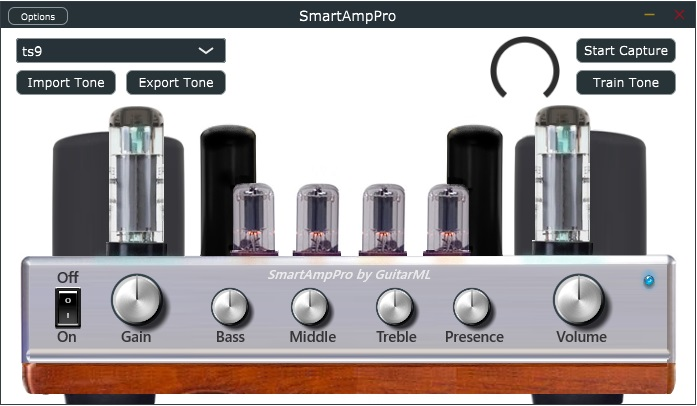
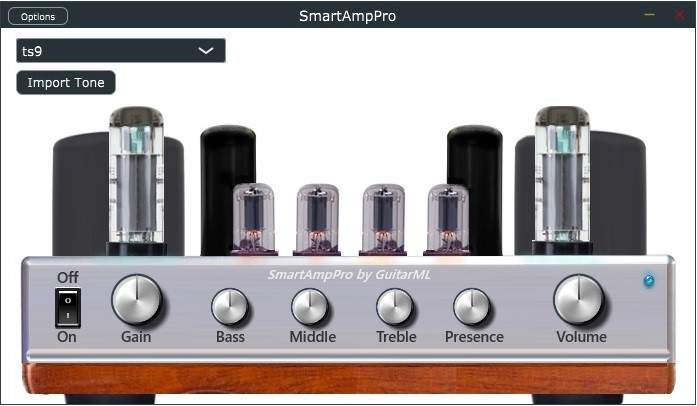
More initial updates

diff --git a/Source/PluginEditor.cpp b/Source/PluginEditor.cpp
@@ -63,66 +63,48 @@ SmartAmpProAudioProcessorEditor::SmartAmpProAudioProcessorEditor (SmartAmpProAud
     addAndMakeVisible(ampPresenceKnob);
     ampPresenceKnob.setLookAndFeel(&ampSilverKnobLAF);
     ampPresenceKnob.addListener(this);
-    //ampPresenceKnob.setRange(-10.0, 10.0);
-    ampPresenceKnob.setValue(processor.ampPresenceKnobState);
     ampPresenceKnob.setSliderStyle(juce::Slider::SliderStyle::RotaryVerticalDrag);
     ampPresenceKnob.setTextBoxStyle(juce::Slider::TextEntryBoxPosition::NoTextBox, false, 75, 20);
-    ampPresenceKnob.setNumDecimalPlacesToDisplay(1);
     ampPresenceKnob.setDoubleClickReturnValue(true, 0.0);
 
     bassSliderAttach = std::make_unique<AudioProcessorValueTreeState::SliderAttachment>(processor.treeState, BASS_ID, ampBassKnob); 
     addAndMakeVisible(ampBassKnob);
     ampBassKnob.setLookAndFeel(&ampSilverKnobLAF);
     ampBassKnob.addListener(this);
-    ampBassKnob.setRange(-8.0, 8.0);
-    ampBassKnob.setValue(processor.ampBassKnobState);
     ampBassKnob.setSliderStyle(juce::Slider::SliderStyle::RotaryVerticalDrag);
     ampBassKnob.setTextBoxStyle(juce::Slider::TextEntryBoxPosition::NoTextBox, false, 50, 20);
-    ampBassKnob.setNumDecimalPlacesToDisplay(1);
     ampBassKnob.setDoubleClickReturnValue(true, 0.0);
 
     midSliderAttach = std::make_unique<AudioProcessorValueTreeState::SliderAttachment>(processor.treeState, MID_ID, ampMidKnob);   
     addAndMakeVisible(ampMidKnob);
     ampMidKnob.setLookAndFeel(&ampSilverKnobLAF);
     ampMidKnob.addListener(this);
-    ampMidKnob.setRange(-8.0, 8.0);
-    ampMidKnob.setValue(processor.ampMidKnobState);
     ampMidKnob.setSliderStyle(juce::Slider::SliderStyle::RotaryVerticalDrag);
     ampMidKnob.setTextBoxStyle(juce::Slider::TextEntryBoxPosition::NoTextBox, false, 50, 20);
-    ampMidKnob.setNumDecimalPlacesToDisplay(1);
     ampMidKnob.setDoubleClickReturnValue(true, 0.0);
 
     trebleSliderAttach = std::make_unique<AudioProcessorValueTreeState::SliderAttachment>(processor.treeState, TREBLE_ID, ampTrebleKnob);
     addAndMakeVisible(ampTrebleKnob);
     ampTrebleKnob.setLookAndFeel(&ampSilverKnobLAF);
     ampTrebleKnob.addListener(this);
-    ampTrebleKnob.setRange(-8.0, 8.0);
-    ampTrebleKnob.setValue(processor.ampTrebleKnobState);
     ampTrebleKnob.setSliderStyle(juce::Slider::SliderStyle::RotaryVerticalDrag);
     ampTrebleKnob.setTextBoxStyle(juce::Slider::TextEntryBoxPosition::NoTextBox, false, 50, 20);
-    ampTrebleKnob.setNumDecimalPlacesToDisplay(1);
     ampTrebleKnob.setDoubleClickReturnValue(true, 0.0);
 
     gainSliderAttach = std::make_unique<AudioProcessorValueTreeState::SliderAttachment>(processor.treeState, GAIN_ID, ampGainKnob);
     addAndMakeVisible(ampGainKnob);
     ampGainKnob.setLookAndFeel(&ampSilverKnobLAF);
     ampGainKnob.addListener(this);
-    ampGainKnob.setRange(-12.0, 12.0);
-    ampGainKnob.setValue(processor.ampGainKnobState);
     ampGainKnob.setSliderStyle(juce::Slider::SliderStyle::RotaryVerticalDrag);
     ampGainKnob.setTextBoxStyle(juce::Slider::TextEntryBoxPosition::NoTextBox, false, 50, 20);
-    ampGainKnob.setNumDecimalPlacesToDisplay(1);
     ampGainKnob.setDoubleClickReturnValue(true, 0.0);
 
     masterSliderAttach = std::make_unique<AudioProcessorValueTreeState::SliderAttachment>(processor.treeState, MASTER_ID, ampMasterKnob);
     addAndMakeVisible(ampMasterKnob);
     ampMasterKnob.setLookAndFeel(&ampSilverKnobLAF);
     ampMasterKnob.addListener(this);
-    ampMasterKnob.setRange(-36.0, 12.0);
-    ampMasterKnob.setValue(processor.ampMasterKnobState);
     ampMasterKnob.setSliderStyle(juce::Slider::SliderStyle::RotaryVerticalDrag);
     ampMasterKnob.setTextBoxStyle(juce::Slider::TextEntryBoxPosition::NoTextBox, false, 50, 20 );
-    ampMasterKnob.setNumDecimalPlacesToDisplay(1);
     ampMasterKnob.setDoubleClickReturnValue(true, -12.0);
 
     addAndMakeVisible(versionLabel);
@@ -156,10 +138,6 @@ SmartAmpProAudioProcessorEditor::~SmartAmpProAudioProcessorEditor()
 //==============================================================================
 void SmartAmpProAudioProcessorEditor::paint (Graphics& g)
 {
-    Image background_smp_on = ImageCache::getFromMemory(BinaryData::smp_on_jpg, BinaryData::smp_on_jpgSize);
-    Image background_smp_off = ImageCache::getFromMemory(BinaryData::smp_off_jpg, BinaryData::smp_off_jpgSize);
-    Image background_orig_on = ImageCache::getFromMemory(BinaryData::original_on_jpg, BinaryData::original_on_jpgSize);
-    Image background_orig_off = ImageCache::getFromMemory(BinaryData::original_off_jpg, BinaryData::original_off_jpgSize);
     if (processor.skin == 0) {
         if (current_background == 1 && processor.amp_state == 1) {
             // Redraw only the clipped part of the background image
@@ -262,15 +240,8 @@ void SmartAmpProAudioProcessorEditor::buttonClicked(juce::Button* button)
 {
     if (button == &ampOnButton) {
         ampOnButtonClicked();
-        helpLabel.setText("", juce::NotificationType::dontSendNotification);
     } else if (button == &loadButton) {
         loadButtonClicked();
-    } else if (button == &recordButton) {
-        recordButtonClicked();
-    } else if (button == &trainButton) {
-        trainButtonClicked();
-    } else if (button == &exportButton) {
-        exportButtonClicked();
     } else if (button == &ampLED) {
         ledButtonClicked();
     }
@@ -322,33 +293,18 @@ void SmartAmpProAudioProcessorEditor::ledButtonClicked() {
 void SmartAmpProAudioProcessorEditor::ampOnButtonClicked() {
     if (processor.amp_state == 0) {
         processor.amp_state = 1;
-        // Reset the directory in case user is manually adding or removing models from the SmartAmpPro directory
-        processor.resetDirectory(processor.userAppDataDirectory_tones);
     }
     else {
         processor.amp_state = 0;
     }
     resetImages();
-    repaint();
 }
 
 
 void SmartAmpProAudioProcessorEditor::sliderValueChanged(Slider* slider)
 {
-    // Amp
-    if (slider == &ampGainKnob)
-        processor.set_ampDrive(slider->getValue());
-    else if (slider == &ampMasterKnob)
-        processor.set_ampMaster(slider->getValue());
-    else if (slider == &ampBassKnob || slider == &ampMidKnob || slider == &ampTrebleKnob) {
+    if (slider == &ampBassKnob || slider == &ampMidKnob || slider == &ampTrebleKnob || slider == &ampPresenceKnob) {
         processor.set_ampEQ(ampBassKnob.getValue(), ampMidKnob.getValue(), ampTrebleKnob.getValue(), ampPresenceKnob.getValue());
-        // Set knob states for saving positions when closing/reopening GUI
-        processor.ampBassKnobState = ampBassKnob.getValue();
-        processor.ampMidKnobState = ampMidKnob.getValue();
-        processor.ampTrebleKnobState = ampTrebleKnob.getValue();
-    }
-    else if (slider == &ampPresenceKnob) {
-            processor.set_ampEQ(ampBassKnob.getValue(), ampMidKnob.getValue(), ampTrebleKnob.getValue(), ampPresenceKnob.getValue());
     }
 }
 

diff --git a/Source/PluginProcessor.cpp b/Source/PluginProcessor.cpp
@@ -167,18 +167,15 @@ void SmartAmpProAudioProcessor::processBlock (AudioBuffer<float>& buffer, MidiBu
     // Setup Audio Data
     const int numSamples = buffer.getNumSamples();
     const int numInputChannels = getTotalNumInputChannels();
+    const int sampleRate = getSampleRate();
 
-    auto ampDrive = static_cast<float> (gainParam->load());
-    auto bassValue = static_cast<float> (bassParam->load());
-    auto midValue = static_cast<float> (midParam->load());
-    auto trebleValue = static_cast<float> (trebleParam->load());
-    auto presenceValue = static_cast<float> (presenceParam->load());
+    auto ampGain = static_cast<float> (gainParam->load());
     auto ampMaster = static_cast<float> (masterParam->load());
 
     // Amp =============================================================================
     if (amp_state == 1) {
 
-        buffer.applyGain(ampDrive);
+        buffer.applyGain(ampGain);
 
 		// Apply LSTM model
         if (model_loaded == 1) {
@@ -186,7 +183,7 @@ void SmartAmpProAudioProcessor::processBlock (AudioBuffer<float>& buffer, MidiBu
         }
 
         //    EQ (Presence, Bass, Mid, Treble)
-        eq4band.process(buffer.getReadPointer(0), buffer.getWritePointer(0), midiMessages, numSamples, numInputChannels);
+        eq4band.process(buffer.getReadPointer(0), buffer.getWritePointer(0), midiMessages, numSamples, numInputChannels, sampleRate);
 
 
         //    Master Volume 

diff --git a/Source/Eq4Band.cpp b/Source/Eq4Band.cpp
@@ -16,8 +16,14 @@ Eq4Band::Eq4Band()
 void Eq4Band::process (const float* inData, float* outData,
                                     MidiBuffer& midiMessages, 
                                     const int numSamples, 
-                                    const int numInputChannels)
+                                    const int numInputChannels,
+                                    const int sampleRate)
 {
+    // Reset params if new sampleRate detected
+    if (srate != sampleRate) {
+        srate = sampleRate;
+        resetSampleRate();
+    }
     for (int sample = 0; sample < numSamples; ++sample) {
         spl0 = inData[sample];
         s0 = spl0;
@@ -41,6 +47,21 @@ void Eq4Band::setParameters(float bass_slider, float mid_slider, float treble_sl
     hVol = exp(presence_slider / cAmpDB);
     outVol = exp(0.0 / cAmpDB);
 
+    xHI = exp(-2.0 * pi * treble_frequency / srate);
+    a0HI = 1.0 - xHI;
+    b1HI = -xHI;
+
+    xMID = exp(-2.0 * pi * mid_frequency / srate);
+    a0MID = 1.0 - xMID;
+    b1MID = -xMID;
+
+    xLOW = exp(-2.0 * pi * bass_frequency / srate);
+    a0LOW = 1.0 - xLOW;
+    b1LOW = -xLOW;
+}
+
+void Eq4Band::resetSampleRate()
+{
     xHI = exp(-2.0 * pi * treble_frequency / srate);
     a0HI = 1.0 - xHI;
     b1HI = -xHI;

diff --git a/Source/Eq4Band.h b/Source/Eq4Band.h
@@ -17,8 +17,9 @@ class Eq4Band
 {
 public:
     Eq4Band();
-    void process (const float* inData, float* outData, MidiBuffer& midiMessages, const int numSamples, const int numInputChannels);
+    void process (const float* inData, float* outData, MidiBuffer& midiMessages, const int numSamples, const int numInputChannels, const int sampleRate);
     void setParameters(float bass_slider, float mid_slider, float treble_slider, float presence_slider);
+    void resetSampleRate();
 
 private:
     // Tone Knob related variables
@@ -30,7 +31,7 @@ private:
     int treble_frequency = 5000;
     //int presence_frequency = 5500;
 
-    int srate = 44100; //TODO set from input
+    int srate = 44100;  // Set default
 
     float pi = 3.1415926;
 

diff --git a/README.md b/README.md
@@ -1,15 +1,15 @@
 # SmartAmpPro
 
 Guitar plugin made with JUCE that uses neural network models to emulate real world hardware.
-This plugin uses a LSTM model to recreate the sound of real amps and pedals. You can record
+This plugin uses a stateless LSTM model to recreate the sound of real amps and pedals. You can record
 samples and train models from the plugin. Tone models are saved in .json format. Model training
-is accomplished using Tensorflow/Keras in a separate script (as of Version 1.0). The main improvement from the original SmartAmp is that
-training takes less than five minutes on CPU (vs. 8 hours on GPU) for comparable sound quality.
-Training has also been integrated into the plugin. For best sound, use with additional Reverb/IR.
+is accomplished using Tensorflow/Keras in a separate script (as of Version 1.0). The model training
+is very fast compared to PedalNetRT or Automated-GuitarAmpModelling, but not as accurate.
+For best sound, use with additional Reverb/IR.
 
 Train models for SmartAmpPro is through [Colab](https://colab.research.google.com/notebooks/intro.ipynb#recent=true). 
 Upload the "train_colab.ipynb" or "train_colab_mse.ipynb" script and .wav file(s) to Colab, then follow the instructions in the notes. 
-No installs necessary, only a Google account to train models in the cloud.
+No dependency installs necessary, only a Google account to train models in the cloud.
 
 Hear the audio demo on [Youtube](https://youtu.be/1njl9wqUG0M)!
 
@@ -17,9 +17,8 @@ Hear the audio demo on [Youtube](https://youtu.be/1njl9wqUG0M)!
 
 ## Installing the plugin
 
-1. Download pre-release plugin (Windows 10, Mac, Ubuntu Linux) [here](https://github.com/GuitarML/SmartAmpPro/releases/tag/v0.1-alpha)
-2. Copy to your DAW's VST directory
-3. For additional tones created by the community, download the [TonePack](https://github.com/GuitarML/SmartAmpPro/releases/tag/v1.0)
+1. Download the appropriate plugin installer (Windows, Mac, Linux) from the [Releases](https://github.com/GuitarML/SmartAmpPro/releases) page.
+2. Run the installer and follow the instructions. May need to reboot to allow your DAW to recognize the new plugin.
 
 
 userApplicationDataDirectoy Locations (default location for models):
@@ -36,8 +35,7 @@ Linux: /home/<username>/.config/GuitarML/SmartAmpPro
 ```
 
 
-Note: The SmartAmp/PedalNetRT and NeuralPi/Automated-GuitarAmpModelling .json files are not compatible with this plugin because it is a
-different machine learning model. Only use tone files trained from the SmartAmpPro Colab training script.
+Note: Only use tone files trained from the SmartAmpPro Colab training script. The NeuralPi and SmartAmp/SmartPedal models are not compatible.
 
 
 ## Build Instructions
